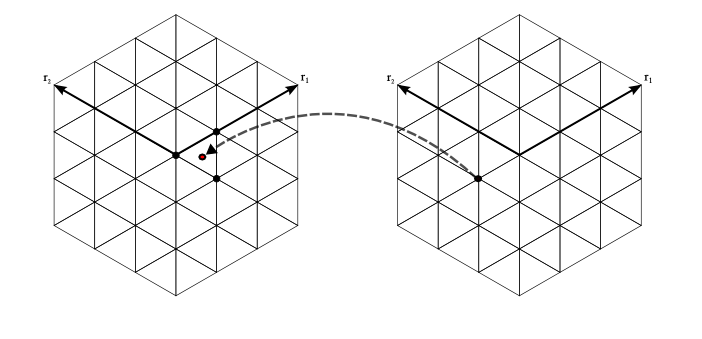
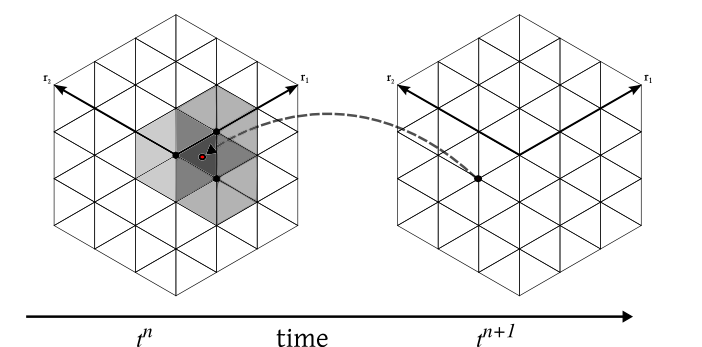
proceedings: more changes that eric suggested

diff --git a/selhex_docs/proceedings/SelHex_proceedings.tex b/selhex_docs/proceedings/SelHex_proceedings.tex
@@ -190,7 +190,7 @@ Box-splines are a generalisation of the more known splines' family: B-splines. T
 \rmrk The box-splines can have different degrees in each direction. Thus, there are different definitions of the degree. We will adopt the definition below.
 
 \begin{dfntn}[Degree of a Box-spline]
-Let $\Xi$ be a $d \times d$ matrix with non-null columns in $\xR^d$. The column vectors of $\Xi$ form a generating basis of $\xR^d$ and linearly independent. Then, the box-spline of degree $N$ of generating matrix $\Xi$, $\chi^N_\Xi$, is the box-spline associated to $\Xi$, where all the generating vectors have multiplicity $N$. This yields, that $\chi^N_\Xi$ is piecewise polynomial of degree $N$.
+Let $\Xi$ be a $d \times d$ matrix with non-null columns in $\xR^d$. The column vectors of $\Xi$ form a generating basis of $\xR^d$ and are linearly independent. Then, the box-spline of degree $N$ of generating matrix $\Xi$, $\chi^N_\Xi$, is the box-spline associated to $\Xi$, where all the generating vectors have multiplicity $N+1$. This yields, that $\chi^N_\Xi$ is piecewise polynomial of degree $N$.
 
 
 \end{dfntn}
@@ -220,7 +220,7 @@ where $*$ is the convolution operator, $s$ is the initial sample data and $p$ is
 
 \subsubsection{Box splines coefficients}
 
-How we determine the splines coefficients is almost as important as the splines themselves. We recall we have the formula \eqref{eqn:coefs}. Based on the literature available (notably \cite{Condat2007}) we have chosen for second-order box-splines the quasi-interpolation pre-filters $p_{IIR2}$ which seem to give the better results within a competitive time. The pre-filter $p_{IIR2}[i]$ of the point of local index $i$, for splines of order 2, is defined as follows : 
+How we determine the splines coefficients is almost as important as the splines themselves. We recall we have the formula \eqref{eqn:coefs}. Based on the literature available (notably \cite{Condat2007}) we have chosen for second-order box-splines the quasi-interpolation pre-filters $p_{IIR2}$ which seem to give better results within a competitive time. The pre-filter $p_{IIR2}[i]$ of the point of local index $i$, for splines of order 2, is defined as follows : 
 
 
 \begin{equation}
@@ -264,17 +264,17 @@ At the present state we have all the elements for the approximation of a functio
 \tilde{f}(\mathbf{x}) = \sum_{\mathbf{k} \in \xZ^2} c[\mathbf{k}] \chi^2(\mathbf{x} - \mathbf{R}\mathbf{k})
 \end{equation}
 
-Even if we limit our sum to the vector $\mathbf{k}$ that defines our domain, we would like to take advantage of the fact that the splines $\chi^2$ are only non-zeros in a limited number of points. Therefore we need to know the indices $\mathbf{k}$ such that $\chi^2(\mathbf{x} - \mathbf{R} \mathbf{x}) \neq 0$. For this purpose we will use the strategy suggested in \cite{Condat2007} : to start we need to obtain the indices on the coordinate system generated by $\mathbf{R}$ : $\mathbf{k}_0 = \left[ \lfloor u \rfloor \; \lfloor v \rfloor \right]$ where $\left[ u \; v \right]^T = \mathbf{R}^ {-1} \mathbf{x} $. Thus, in our case, with splines $\chi^2$ we only need 4 terms associated to the encapsulating rhomboid's vertices : $\mathbf{R}\mathbf{k}_0$, $\mathbf{R}\mathbf{k}_0 + \mathbf{r_1}$, $\mathbf{R}\mathbf{k}_0 + \mathbf{r_2}$ and $\mathbf{R}\mathbf{k}_0 + \mathbf{r_1} + \mathbf{r_2}$. Finally we obtain :
+Even if we limit our sum to the vector $\mathbf{k}$ that defines our domain, we would like to take advantage of the fact that the splines $\chi^1$ are only non-zeros in a limited number of points. Therefore we need to know the indices $\mathbf{k}$ such that $\chi^1(\mathbf{x} - \mathbf{R} \mathbf{x}) \neq 0$. For this purpose we will use the strategy suggested in \cite{Condat2007} : to start we need to obtain the indices on the coordinate system generated by $\mathbf{R}$ : $\mathbf{k}_0 = \left[ \lfloor u \rfloor \; \lfloor v \rfloor \right]$ where $\left[ u \; v \right]^T = \mathbf{R}^ {-1} \mathbf{x} $. Thus, in our case, with splines $\chi^2$ we only need 4 terms associated to the encapsulating rhomboid's vertices : $\mathbf{R}\mathbf{k}_0$, $\mathbf{R}\mathbf{k}_0 + \mathbf{r_1}$, $\mathbf{R}\mathbf{k}_0 + \mathbf{r_2}$ and $\mathbf{R}\mathbf{k}_0 + \mathbf{r_1} + \mathbf{r_2}$. Finally we obtain :
 
 \begin{align}
 \label{eqn:chi2_fct_interpol}
-\tilde{f}(\mathbf{x}) =& \;\;\;\;\; c[\mathbf{k}_0] \; \chi^2(\mathbf{x} - \mathbf{R}\mathbf{k}_0) \nonumber\\
-	&+ c[\mathbf{k}_0 +[1,0]]\; \chi^2(\mathbf{x} - \mathbf{R}\mathbf{k}_0 - \mathbf{r_1}) \nonumber\\
-	&+ c[\mathbf{k}_0 +[0,1]]\; \chi^2(\mathbf{x} - \mathbf{R}\mathbf{k}_0 - \mathbf{r_2}) \nonumber\\
-	&+ c[\mathbf{k}_0 +[1,1]]\; \chi^2(\mathbf{x} - \mathbf{R}\mathbf{k}_0 - \mathbf{r_1} - \mathbf{r_2})
+\tilde{f}(\mathbf{x}) =& \;\;\;\;\; c[\mathbf{k}_0] \; \chi^1(\mathbf{x} - \mathbf{R}\mathbf{k}_0) \nonumber\\
+	&+ c[\mathbf{k}_0 +[1,0]]\; \chi^1(\mathbf{x} - \mathbf{R}\mathbf{k}_0 - \mathbf{r_1}) \nonumber\\
+	&+ c[\mathbf{k}_0 +[0,1]]\; \chi^1(\mathbf{x} - \mathbf{R}\mathbf{k}_0 - \mathbf{r_2}) \nonumber\\
+	&+ c[\mathbf{k}_0 +[1,1]]\; \chi^1(\mathbf{x} - \mathbf{R}\mathbf{k}_0 - \mathbf{r_1} - \mathbf{r_2})
 \end{align}
 
-\rmrk  As the $\chi^2$ spline has a support of radius the unity, one of the elements of \eqref{eqn:chi2_fct_interpol} is null. But this formula allows us to keep a short general formula for all points on the mesh without having to compute the indices of the cell to which $\mathbf{x}$ belongs to.
+\rmrk  As the $\chi^1$ spline has a support of radius the unity, one of the elements of \eqref{eqn:chi2_fct_interpol} is null. But this formula allows us to keep a short general formula for all points on the mesh without having to compute the indices of the cell to which $\mathbf{x}$ belongs to.
 
 
 %%-----------------------------
@@ -548,91 +548,90 @@ are discretized. The downside of this type of method is the dissipation.
 With the intention of neglecting the pitfalls of the method, the Semi-Lagrangian method was introduced, first in numerical weather prediction, but since then, it has been introduced for plasma simulations \cite{sonnendrucker:inria-00073296, Cheng1976330} and it's getting more and more popular. This scheme consists on fixing an Eulerian grid in phase-space and following the trajectory of the equation's characteristics in time to compute the evolution of the distribution function. The advantages of this scheme are the possibility of taking large time steps and its stability. However, it is important to note that it's very computationally costly to go to high dimensions. Thus, it is typically used with 1D and 2D models. Lastly, we can point out that there are many types of Semi-Lagrangian solvers (\emph{e.g.} depending on the trajectories: Backward or Forward;  depending on the elements on which is based: grid's point, integrated cell..). We have chosen here to use the classical Backward Semi-Lagrangian method. 
 
 %%-----------------------------
-\subsection{The Guiding-Center Model}
-We consider here a guiding-center approximation of the 2D Vlasov-Poisson system, where the parallel velocity has been neglected and the magnetic field is set to $B = \begin{pmatrix} 0 & 0 & 1 \end{pmatrix}^T$. Furthermore, we consider the model in 2D in space and 1D in time. The reduced gyrokinetic model obtained\cite{filbet:hal-01068223} is
+\subsection{The non-constant advection equation}
 
-\begin{subnumcases}{\label{eqn:guiding_center}}
-	\dfrac{\partial \rho}{\partial t} + E_{\perp} \cdot \nabla_{\mathbf{x}} \rho(\mathbf{x}, t) = 0\label{eqn:gc_vlasov}\\
-	- \Delta \phi = \nabla \cdot E = \rho(\mathbf{x}, t) \label{eqn:gc_poisson}
-\end{subnumcases}
+As an example, we take the non-constant advection equation, which can be written in general form
 
-with $E = (E_x, E_y) = - \nabla \phi $ and $E_\perp = (-E_y, E_x)$.
+\begin{equation}
+	\dfrac{\partial \rho}{\partial t} + \mathbf{A} \cdot \nabla_{\mathbf{x}} \rho(\mathbf{x}, t)  = 0
+	\label{eqn:noncst_advec}
+\end{equation}
 
-By neglecting the effect of boundary conditions, the  guiding center model verifies the following properties:
-\begin{enumerate}
-	\item Positivity of density $\rho$
- 	\begin{equation*}
-	 	 0\leq\rho(t,x,y).  
- 	\end{equation*}
-	\item Mass conservation
-	\begin{equation*}
-		\frac{d}{dt}\left(\int_{D}\rho dx dy\right)=0.
-	\end{equation*}
-	\item $L^p$ norm conservation, for $1\leq p\leq\infty$
-	\begin{equation*}
-		\frac{d}{dt}||\rho||_{L^p(D)}=0.
-	\end{equation*}
-	\item Energy conservation
-	\begin{equation*}
-		\frac{d}{dt}\left(\int_{D}|\nabla\phi|^2dx dy\right)=0.
-	\end{equation*}
-\end{enumerate}
+where $\mathbf{A}$ is divergence free (\emph{i.e.} $\nabla \cdot \mathbf{A} = 0$) and the density $\rho$ is known at the initial time (\emph{i.e.} $\rho(\mathbf{x}, 0) = \rho_0(\mathbf{x})$ is known). This equation is generally considered the simplest form of the Vlasov equation. We will apply the backward Semi-Lagrangian scheme to solve it.
 
 
-This model, is commonly used in 2D simulations to study the particle density, as it describes highly magnetized plasmas in the poloidal plane of a tokamak.
-
-%%-----------------------------
-\subsection{General Algorithm}
-We consider the model \eqref{eqn:guiding_center} on a 2D hexagonal domain, discretized with the hexagonal mesh. The points of the lattice are denoted $\mathbf{x}=(x_1, x_2)$. The distribution function $f(\mathbf{x},t)$ is known on all mesh points at the initial time $t=0$. In other words, $f_0(\mathbf{x})$ is given. To obtain the initial electric field, we solve \eqref{eqn:gc_poisson} using either poisson solver defined in \ref{sec:poisson_eqn}. We proceed to apply the BSL to the Vlasov equation \eqref{eqn:gc_vlasov}: First, we apply the characteristic method, we obtain for a given $s \in \xR $
+We consider the model \eqref{eqn:noncst_advec} on a 2D hexagonal domain, discretized with the hexagonal mesh. The points of the lattice are denoted $\mathbf{x}=(x_1, x_2)$. The distribution function $\rho(\mathbf{x},t)$ is known on all mesh points at the initial time $t=0$. In other words, $\rho_0(\mathbf{x})$ is given. Let $A_x$ and $A_y$ be respectively, the first and second components of $\mathbf{A}$. We proceed to apply the BSL to the Vlasov equation \eqref{eqn:gc_vlasov}: First, we apply the characteristics' method. We obtain for a given $s \in \xR $
 
 \begin{equation}
 	\label{eqn:charac_sys}
 	\left\lbrace
 	\begin{array}{lcl}
-	\displaystyle \dfrac{d \mathbf{X}}{dt} &=& E_\perp\\[0.3cm]
+	\displaystyle \dfrac{d \mathbf{X}}{dt} &=& \mathbf{A}\\[0.3cm]
 	\displaystyle \mathbf{X}(s) &=& \mathbf{x}
 	\end{array}\right.
 ~~\Longleftrightarrow ~~
 	\left\lbrace
 	\begin{array}{lcl}
-	\displaystyle \dfrac{d \mathbf{X_1}}{dt} &=& -E_y\\[0.3cm]
-	\displaystyle \dfrac{d \mathbf{X_2}}{dt} &=& E_x\\[0.3cm]
+	\displaystyle \dfrac{d \mathbf{X_1}}{dt} &=& A_x\\[0.3cm]
+	\displaystyle \dfrac{d \mathbf{X_2}}{dt} &=& A_y\\[0.3cm]
 	\displaystyle X_1(s) &=& x_1, \quad   X_2(s) = x_2
 	\end{array}\right.
 \end{equation}
 
-The solutions ($X_1, X_2$) of \eqref{eqn:charac_sys}, obtained by any ODE solver, are called the characteristics of \eqref{eqn:charac_sys}. Besides, we know that the density $f$ is conserved along these characteristics and therefore we can write:
+The solutions ($X_1, X_2$) of \eqref{eqn:charac_sys}, obtained by any ODE solver, are called the characteristics of \eqref{eqn:charac_sys}. Besides, we know that the density $\rho$ is conserved along these characteristics and therefore we can write:
 
 \begin{equation}
-	f(\mathbf{x}, dt) = f(\mathbf{X}, 0)
+	\rho(\mathbf{x}, dt) = \rho(\mathbf{X}, 0)
 \end{equation}
 
-Or for any given time $t^{n+1}$ when $f^n$, the distribution function at the previous time, is known
+Or for any given time $t^{n+1}$ when $\rho^n$, the distribution function at the previous time step, is known
 
 \begin{equation}
 \label{eqn:SL_eqn}
-	f(\mathbf{x}, t^{n+1}) = f^n(\mathbf{X}^{n+1})
+	\rho(\mathbf{x}, t^{n+1}) = \rho^n(\mathbf{X}^{n+1})
 \end{equation}
 
-The initial distribution function is only known on the mesh points, and the characteristic's origin $X^{n+1}$ are probably not on a mesh point (see figure~\ref{fig:SL}). Therefore, we can use any interpolation method to compute $f^n$ on the characteristic's origin, \emph{i.e.} to approximate the solution of the equation \eqref{eqn:SL_eqn}.
+The initial distribution function is only known on the mesh points, and the characteristic's origin $X^{n+1}$ are probably not on a mesh point (see figure~\ref{fig:SL_hex}). Therefore, we can use any interpolation method to compute $f^n$ on the characteristic's origin, \emph{i.e.} to approximate the solution of the equation \eqref{eqn:SL_eqn}, using the the known data on the mesh points at its vicinity.
+
+
+%%-----------------------------
+\subsection{Localizing the characteristics' origins}
+
 
 \begin{figure}[h!]
-	\label{fig:SL}
 	\centering
 	\includegraphics[scale=0.5]{figures/SL_hex.png} 
 	\caption{Semi-Lagrangian step: Tracing back characteristics.}
+	\label{fig:SL_hex}
 \end{figure}
 
-Below, we summarize the full algorithm to compute the distribution function $f^{n+1}$ solution of the guiding-center model \eqref{eqn:guiding_center}.
+
+One of the advantages of the hexagonal mesh is its regularity. Indeed, even if the mesh is not Cartesian, localizing the characteristics' origin requires almost no computation. Let $(X_1, X_2)$ the Cartesian coordinates of the characteristics' origin, obtained by solving \eqref{eqn:charac_sys}. Then to obtain the hexagonal coordinates $(k_1, k_2)$ of the lowest point of the rhomboid encapsulating the point, we simply need to solve the system $\mathbf{x} = \mathbf{R} \mathbf{k}$, we get
+
+\begin{equation}
+	\label{eqn:k1k2}
+	\left\lbrace
+	\begin{array}{lclcl}
+	k_1 &=&  \dfrac{\lfloor r_{22} X_1 - r_{21} X_2 \rfloor}{r_{11}*r_{22} - r_{12} r_{21}} & = &  \;\;\;\dfrac{1}{\sqrt{3}} X_1 + X_2\\[0.3cm]
+	k_2 &=&  \dfrac{\lfloor r_{11} X_2 - r_{12} X_1 \rfloor}{r_{11}*r_{22} - r_{12} r_{21}} & = &  -\dfrac{1}{\sqrt{3}} X_1 + X_2
+	\end{array}\right.
+\end{equation}
+
+After obtaining $(k_1, k_2)$, we know the rhomboid (composed by two cells) containing the characteristics' origin. To determine the exact cell on which the origin is located, we only need to verify if the abscissa of the point is greater than the abscissa of the mesh point at $(k_1, k_2)$ or not. In the first case the point belongs to the cell at the right, else to the cell at the left.
+
+
+%%-----------------------------
+\subsection{General Algorithm}
+
+Below, we summarize the full algorithm to compute the distribution function $\rho^{n+1}$ solution of the non-constant advection equation \eqref{eqn:noncst_advec}.
 
 \begin{description}
-	\item[Initialization] At time $t=0$, we suppose that $f(\mathbf{x}, 0)$ is given. We compute the \underline{electric field $E$} by solving the poisson equation \eqref{eqn:gc_poisson}.
+	\item[Initialization] At time $t=0$, we suppose that $\rho(\mathbf{x}, 0)$ is given.
 	\item[Time Loop] Incrementation of a given time step $\Delta t$, such that: $t^{n+1} = t^n + \Delta t$
 		\begin{itemize}
 		\item Compute the \underline{characteristics' origins} using an ODE solver for \eqref{eqn:charac_sys};
-		\item Interpolate the \underline{distribution function $f^n$} on that point using the mesh points in the vicinity;
-		\item Solve the poisson equation to find the \underline{electric field $E^{n+1}$};
-		\item Update the known values: $f^n = f^{n+1}$, $E^{n+1}=E^n$.
+		\item Interpolate the \underline{distribution function $\rho^n$} on that point using the mesh points in the vicinity;
+		\item Update the known values: $\rho^n = \rho^{n+1}$.
 		\end{itemize}
 	\item[Remark] the boundary conditions will intervene in between the first and the second steps of the time loop (\emph{i.e.} before the interpolation step). On this paper we focus only on null Dirichlet boundary conditions.
 \end{description}
@@ -666,8 +665,8 @@ On a hexagonal mesh centered at the origin, of radius $8$,  we take  $\sigma_x =
 
 \begin{figure}[h!]
 	\label{fig:circ_convergence}
-	\includegraphics[scale=0.35]{figures/l2.png}
-	\includegraphics[scale=0.35]{figures/inf_l.png}
+	\includegraphics[width=0.45\textwidth]{figures/l2.png}
+	\includegraphics[width=0.45\textwidth]{figures/inf_l.png}
 	\caption{Order of convergence}
 \end{figure}
 
@@ -685,7 +684,7 @@ Figure~\ref{fig:circ_performance} we can see that the level of performance of al
 \subsection{Guiding-center}
 
 
-We recall the guiding-center model
+We consider here a guiding-center approximation of the 2D Vlasov-Poisson system, where the parallel velocity has been neglected and the magnetic field is set to $B = \begin{pmatrix} 0 & 0 & 1 \end{pmatrix}^T$. Furthermore, we consider the model in 2D in space and 1D in time. The reduced gyrokinetic model obtained\cite{filbet:hal-01068223} is
 
 \begin{subnumcases}{\label{eqn:guiding_center}}
 	\dfrac{\partial \rho}{\partial t} + E_{\perp} \cdot \nabla_{\mathbf{x}} \rho(\mathbf{x}, t) = 0\label{eqn:gc_vlasov}\\
@@ -693,6 +692,29 @@ We recall the guiding-center model
 \end{subnumcases}
 
 with $E = (E_x, E_y) = - \nabla \phi $ and $E_\perp = (-E_y, E_x)$.
+
+By neglecting the effect of boundary conditions, the  guiding center model verifies the following properties:
+\begin{enumerate}
+	\item Positivity of density $\rho$
+ 	\begin{equation*}
+	 	 0\leq\rho(t,x,y).  
+ 	\end{equation*}
+	\item Mass conservation
+	\begin{equation*}
+		\frac{d}{dt}\left(\int_{D}\rho dx dy\right)=0.
+	\end{equation*}
+	\item $L^p$ norm conservation, for $1\leq p\leq\infty$
+	\begin{equation*}
+		\frac{d}{dt}||\rho||_{L^p(D)}=0.
+	\end{equation*}
+	\item Energy conservation
+	\begin{equation*}
+		\frac{d}{dt}\left(\int_{D}|\nabla\phi|^2dx dy\right)=0.
+	\end{equation*}
+\end{enumerate}
+
+
+This model, is commonly used in 2D simulations to study the particle density, as it describes highly magnetized plasmas in the poloidal plane of a tokamak.
 
 
 We chose here to study the diocotron instability \cite{madaule:hal-00841504}.
@@ -712,11 +734,11 @@ with $\theta=\text{atan2}(y,x)$.
 
 \textcolor{red}{peut etre un paragraphe sur l'evolution de la densite, les 6 modes retrouves qqsoit eps, etc, commenter la figure 6}
 \begin{figure}[h!]
-	\includegraphics[scale=0.15]{figures/gc_spl_1.png}
-	\includegraphics[scale=0.15]{figures/gc_spl_2.png}
-	\includegraphics[scale=0.15]{figures/gc_spl_3.png}
-	\includegraphics[scale=0.15]{figures/gc_spl_4.png}
-	\includegraphics[scale=0.15]{figures/gc_spl_5.png}
+	\includegraphics[width=0.3\textwidth]{figures/gc_spl_1.png}
+	\includegraphics[width=0.3\textwidth]{figures/gc_spl_2.png}
+	\includegraphics[width=0.3\textwidth]{figures/gc_spl_3.png}
+	\includegraphics[width=0.3\textwidth]{figures/gc_spl_4.png}
+	\includegraphics[width=0.3\textwidth]{figures/gc_spl_5.png}
 	\caption{Time evolution of the guiding-center model, at times = }
 \end{figure}
 
